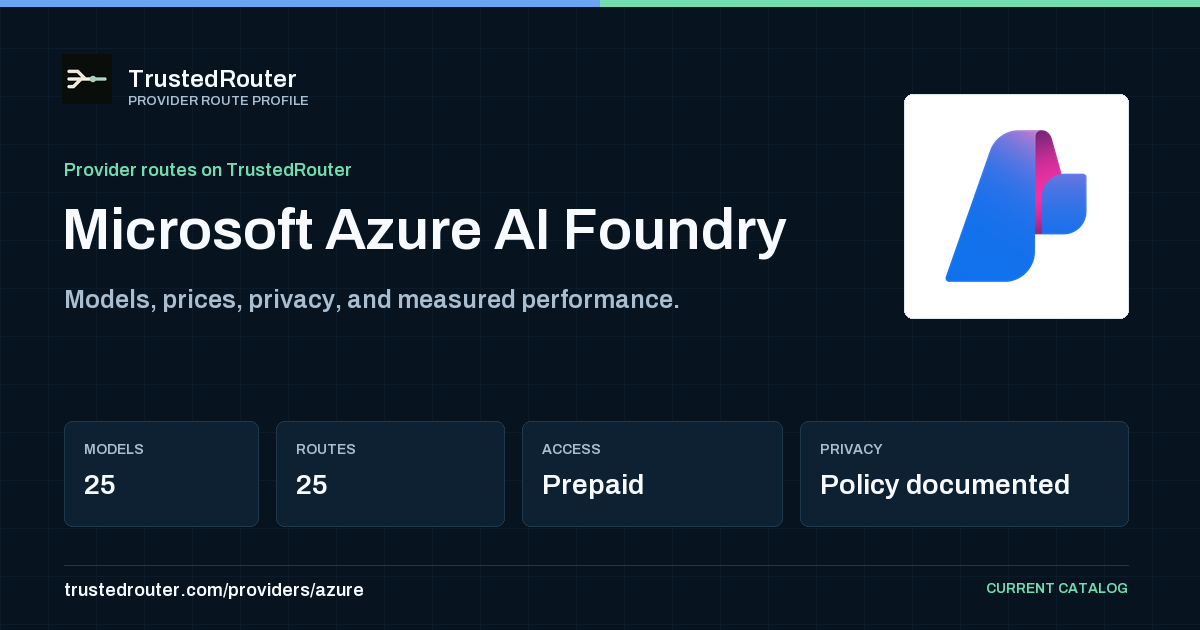
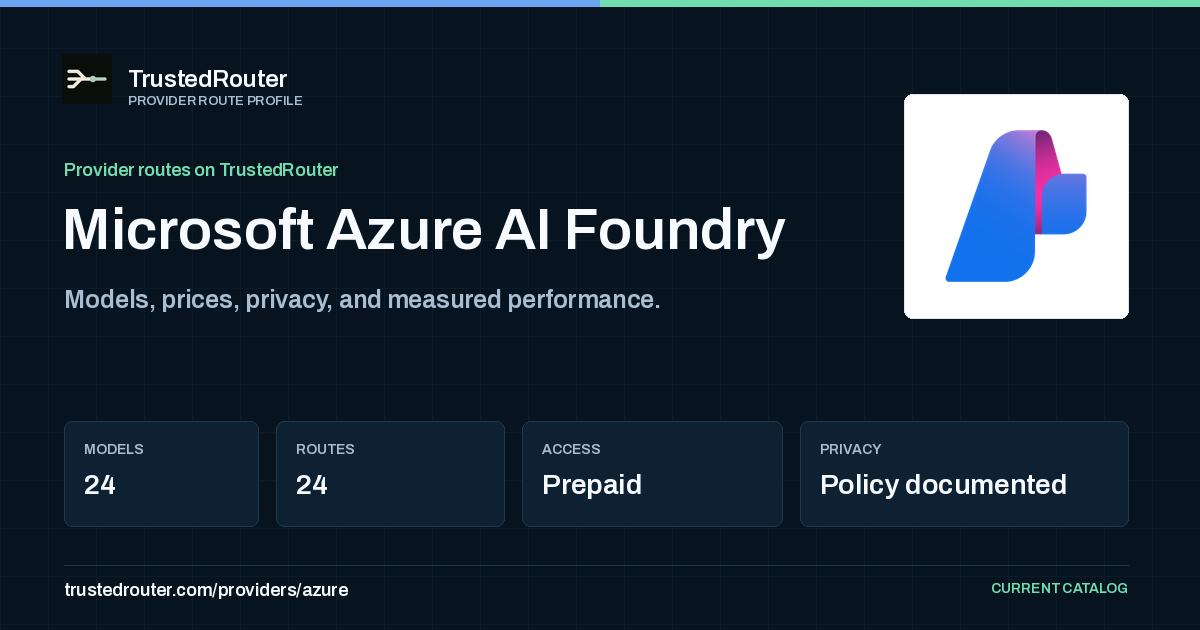
Harden Azure Foundry production catalog

diff --git a/tests/test_azure_provider.py b/tests/test_azure_provider.py
@@ -17,6 +17,7 @@ from scripts.providers.sync_azure_foundry import (
     select_deployment_candidates,
     write_manifest,
 )
+from scripts.smoke_all_providers import PROBES
 from trusted_router.catalog import MODEL_ENDPOINTS, PROVIDERS
 
 
@@ -117,6 +118,7 @@ def test_azure_retail_prices_use_decimal_units_and_ignore_data_zone() -> None:
     command = prices["cohere/command-a-plus-05-2026"]
     assert command.prompt_micro_per_m == 800_000
     assert command.completion_micro_per_m == 3_200_000
+    assert "anthropic/claude-opus-5" not in prices
 
 
 def test_azure_retail_price_ambiguity_fails_closed() -> None:
@@ -144,6 +146,38 @@ def test_azure_retail_price_ambiguity_fails_closed() -> None:
         assert "ambiguous Azure input price" in str(exc)
     else:
         raise AssertionError("ambiguous Azure prices must not be published")
+
+
+def test_azure_fetch_uses_current_pricing_validation_contract(
+    monkeypatch: pytest.MonkeyPatch,
+) -> None:
+    rows = [
+        _price_row(
+            product="Azure Deepseek Models",
+            name="V4 Flash Inp glbl",
+            price="0.00019",
+        ),
+        _price_row(
+            product="Azure Deepseek Models",
+            name="V4 Flash Outp glbl",
+            price="0.00051",
+        ),
+    ]
+    monkeypatch.setattr(azure, "fetch_retail_rows", lambda: rows)
+
+    result = azure.fetch()
+
+    assert result.slug == "azure"
+    assert result.prices["deepseek/deepseek-v4-flash"].prompt_micro_per_m == 190_000
+
+
+def test_azure_fetch_rejects_an_empty_retail_feed(
+    monkeypatch: pytest.MonkeyPatch,
+) -> None:
+    monkeypatch.setattr(azure, "fetch_retail_rows", lambda: [])
+
+    with pytest.raises(RuntimeError, match="empty pricing dict"):
+        azure.fetch()
 
 
 def test_azure_candidate_selection_requires_chat_price_and_remaining_sync_quota() -> None:
@@ -205,6 +239,22 @@ def test_azure_candidate_selection_requires_enough_quota_for_minimum_capacity() 
         [_model("Kimi-K2.7-Code", usage_name=usage_name, minimum_capacity=10)],
         [_usage(usage_name, limit=10, current=1)],
         frozenset({"moonshotai/kimi-k2.7-code"}),
+    )
+
+    assert selected == []
+
+
+def test_azure_candidate_selection_rejects_skus_without_matching_prices() -> None:
+    usage_name = "AIServices.DataZoneStandard.gpt-5.4-mini"
+    model = _model("gpt-5.4-mini", usage_name=usage_name)
+    sku = model["skus"][0]
+    assert isinstance(sku, dict)
+    sku["name"] = "DataZoneStandard"
+
+    selected = select_deployment_candidates(
+        [model],
+        [_usage(usage_name)],
+        frozenset({"openai/gpt-5.4-mini"}),
     )
 
     assert selected == []
@@ -351,6 +401,9 @@ def test_azure_manifest_registers_prepaid_only_gateway_routes() -> None:
     assert PROVIDERS["azure"].supports_prepaid is True
     assert PROVIDERS["azure"].supports_byok is False
     assert len(rows) >= 20
+    assert all(row["azure_deployment_sku"] == "GlobalStandard" for row in rows)
+    assert all(not row["id"].startswith("anthropic/") for row in rows)
+    assert all(row["id"] != "openai/gpt-5.4-mini" for row in rows)
     for row in rows:
         model_id = row["id"]
         endpoint = MODEL_ENDPOINTS[f"{model_id}@azure/prepaid"]
@@ -360,6 +413,10 @@ def test_azure_manifest_registers_prepaid_only_gateway_routes() -> None:
         assert endpoint.prompt_price_microdollars_per_million_tokens > 0
         assert endpoint.completion_price_microdollars_per_million_tokens > 0
         assert f"{model_id}@azure/byok" not in MODEL_ENDPOINTS
+
+
+def test_all_provider_smoke_includes_azure() -> None:
+    assert ("azure", "deepseek/deepseek-v4-flash") in PROBES
 
 
 def test_azure_sync_leaves_unchanged_manifest_byte_identical(
@@ -378,7 +435,7 @@ def test_azure_sync_leaves_unchanged_manifest_byte_identical(
     existing = {
         "_about": (
             "Azure AI Foundry deployments verified for this TrustedRouter subscription. "
-            "The automatic sync publishes only synchronous chat deployments with "
+            "The account sync publishes only synchronous chat deployments with "
             "remaining quota, exact pricing, and a successful direct PONG canary."
         ),
         "provider": "azure",

diff --git a/scripts/pricing/providers/azure.py b/scripts/pricing/providers/azure.py
@@ -42,7 +42,6 @@ MANIFEST_PATH = (
     / "provider_models"
     / "azure.json"
 )
-ANTHROPIC_MANIFEST_PATH = MANIFEST_PATH.with_name("anthropic.json")
 
 
 @dataclass(frozen=True)
@@ -204,35 +203,13 @@ def _retail_rate(
     return next(iter(candidates), None)
 
 
-def _anthropic_prices() -> dict[str, ModelPrice]:
-    raw = json.loads(ANTHROPIC_MANIFEST_PATH.read_text(encoding="utf-8"))
-    prices: dict[str, ModelPrice] = {}
-    for row in raw.get("models", []):
-        if not isinstance(row, dict) or not isinstance(row.get("id"), str):
-            continue
-        prompt = row.get("input_token_price_per_m")
-        completion = row.get("output_token_price_per_m")
-        if not isinstance(prompt, int) or not isinstance(completion, int):
-            continue
-        cached = row.get("cached_input_token_price_per_m")
-        prices[row["id"]] = ModelPrice(
-            prompt,
-            completion,
-            prompt_cached_micro_per_m=cached if isinstance(cached, int) else None,
-        )
-    # Azure and Anthropic both publish these legacy Opus 4.1 rates. Keep this
-    # explicit because that retired-from-direct manifest row is still live in
-    # the account-scoped Azure catalog.
-    prices["anthropic/claude-opus-4.1"] = ModelPrice(
-        15_000_000,
-        75_000_000,
-        prompt_cached_micro_per_m=1_500_000,
-    )
-    return prices
-
-
 def parse_retail_prices(rows: list[dict[str, Any]]) -> dict[str, ModelPrice]:
-    prices = _anthropic_prices()
+    # Do not copy prices from a provider's direct API. A model is eligible for
+    # Azure only when Microsoft's Retail Prices API exposes an unambiguous
+    # meter for the exact Azure SKU. In particular, Azure currently publishes
+    # no Claude/Anthropic meters, so those deployments remain dark even if
+    # Marketplace terms become accepted later.
+    prices: dict[str, ModelPrice] = {}
     for model_id, rule in _RETAIL_RULES.items():
         prompt = _retail_rate(rows, rule, kind="input")
         completion = _retail_rate(rows, rule, kind="output")
@@ -277,7 +254,9 @@ def fetch() -> ProviderPricingResult:
         source="api",
         fetched_url=URL,
     )
-    validate(result, required_models=frozenset())
+    errors = validate(result.prices, [])
+    if errors:
+        raise RuntimeError("; ".join(errors))
     return result
 
 

diff --git a/scripts/providers/sync_azure_foundry.py b/scripts/providers/sync_azure_foundry.py
@@ -47,7 +47,11 @@ MANAGEMENT_API_VERSION = "2025-10-01-preview"
 OPENAI_BASE_URL = "https://trustedrouter-foundry-eastus2.openai.azure.com/openai/v1"
 ANTHROPIC_BASE_URL = "https://trustedrouter-foundry-eastus2.services.ai.azure.com/anthropic/v1"
 CANARY_TIMEOUT = httpx.Timeout(connect=10, read=30, write=10, pool=10)
-_SKU_PREFERENCE = ("GlobalStandard", "DataZoneStandard", "Standard")
+# The pricing adapter intentionally admits only global meters. Azure's Data
+# Zone and regional SKUs have different rates; selecting one while attaching a
+# global price underbills requests (for example GPT-5.4 Mini is 10% higher in
+# Data Zone as of 2026-08-20). Add SKU-keyed pricing before broadening this.
+_SKU_PREFERENCE = ("GlobalStandard",)
 _ACTIVE_LIFECYCLES = frozenset({"GenerallyAvailable", "Preview"})
 
 
@@ -491,7 +495,7 @@ def write_manifest(rows: list[dict[str, Any]]) -> bool:
     stable_payload = {
         "_about": (
             "Azure AI Foundry deployments verified for this TrustedRouter subscription. "
-            "The automatic sync publishes only synchronous chat deployments with "
+            "The account sync publishes only synchronous chat deployments with "
             "remaining quota, exact pricing, and a successful direct PONG canary."
         ),
         "provider": "azure",

diff --git a/src/trusted_router/catalog_data.py b/src/trusted_router/catalog_data.py
@@ -2596,6 +2596,16 @@ MODEL_ORIGINS: dict[str, ModelOrigin] = {
             "stating a location."
         ),
     ),
+    "microsoft": ModelOrigin(
+        country=PROVIDER_JURISDICTION_US,
+        lab_name="Microsoft Research",
+        source_url="https://www.microsoft.com/en-us/privacy/privacystatement",
+        note=(
+            "The Phi family is built by Microsoft Research. Microsoft's privacy "
+            "statement identifies Microsoft Corporation at One Microsoft Way, "
+            "Redmond, Washington 98052, United States."
+        ),
+    ),
     # --- Canada ---
     "cohere": ModelOrigin(
         country=PROVIDER_JURISDICTION_CA,

diff --git a/tests/test_smoke_prod.py b/tests/test_smoke_prod.py
@@ -135,6 +135,7 @@ def test_api_catalog_and_regions_are_publicly_reachable(
         "mistral",
         "kimi",
         "zai",
+        "azure",
     }.issubset({item["id"] for item in providers.json()["data"]})
     assert "europe-west4" in {item["id"] for item in regions.json()["data"]}
 

diff --git a/scripts/smoke_all_providers.py b/scripts/smoke_all_providers.py
@@ -54,6 +54,7 @@ PROBES: list[tuple[str, str]] = [
     ("telnyx", "moonshotai/kimi-k3"),
     ("wafer", "z-ai/glm-5.2"),
     ("crusoe", "deepseek/deepseek-v4-flash"),
+    ("azure", "deepseek/deepseek-v4-flash"),
 ]
 
 # Per-region enclave URLs the smoke targets. We deliberately use the

diff --git a/scripts/providers/__init__.py b/scripts/providers/__init__.py
@@ -1,2 +1,1 @@
 """Provider account synchronization jobs."""
-
